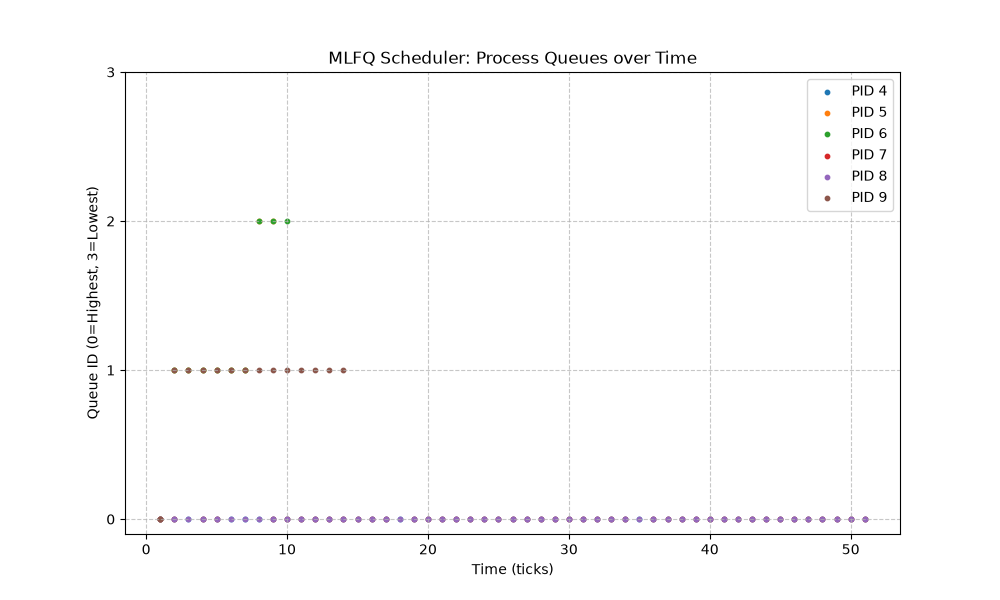
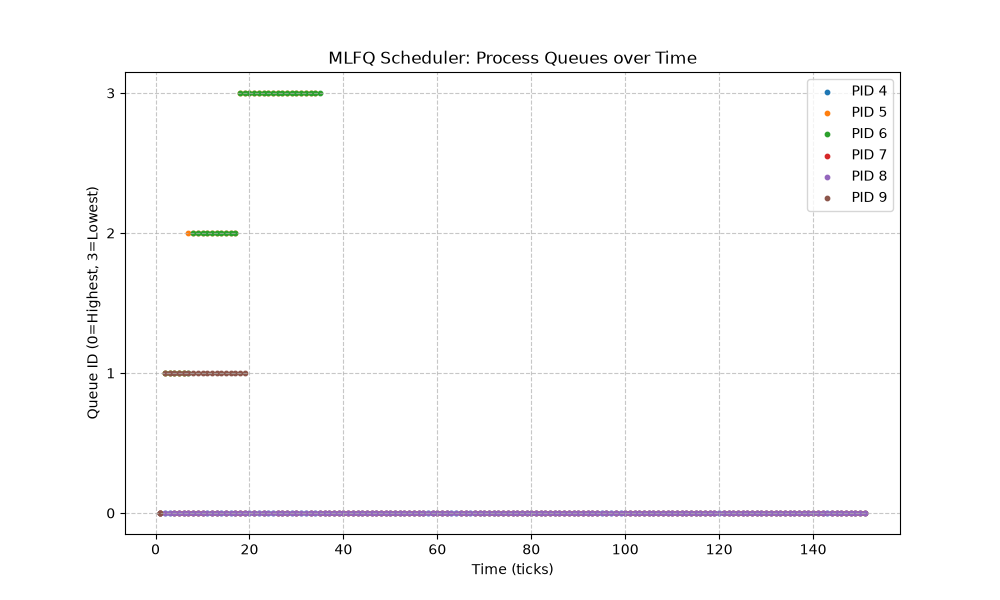
Fix plot image location

diff --git a/xv6/generate_report.py b/xv6/generate_report.py
@@ -13,14 +13,14 @@ for sched in schedulers:
     os.system(f"make SCHEDULER={sched}")
     
     # Spawn qemu
-    child = pexpect.spawn(f"make qemu SCHEDULER={sched}", encoding='utf-8', timeout=60)
+    child = pexpect.spawn(f"make qemu SCHEDULER={sched}", encoding='utf-8', timeout=900)
     
     try:
         child.expect("init: starting sh", timeout=10)
         child.sendline("schedulertest")
         
         # Wait for test to complete
-        child.expect("schedulertest: all children completed", timeout=60)
+        child.expect("schedulertest: all children completed", timeout=900)
         
         # Get output
         output = child.before
@@ -89,7 +89,7 @@ plt.ylabel("Queue ID (0=Highest, 3=Lowest)")
 plt.title("MLFQ Scheduler: Process Queues over Time")
 plt.legend()
 plt.grid(True, linestyle='--', alpha=0.7)
-plt.savefig("../report_mlfq_plot.png")
+plt.savefig("report_mlfq_plot.png")
 
 # Generate report.md
 report_content = f"""# Mini-Project 1: xv6 Schedulers Report
